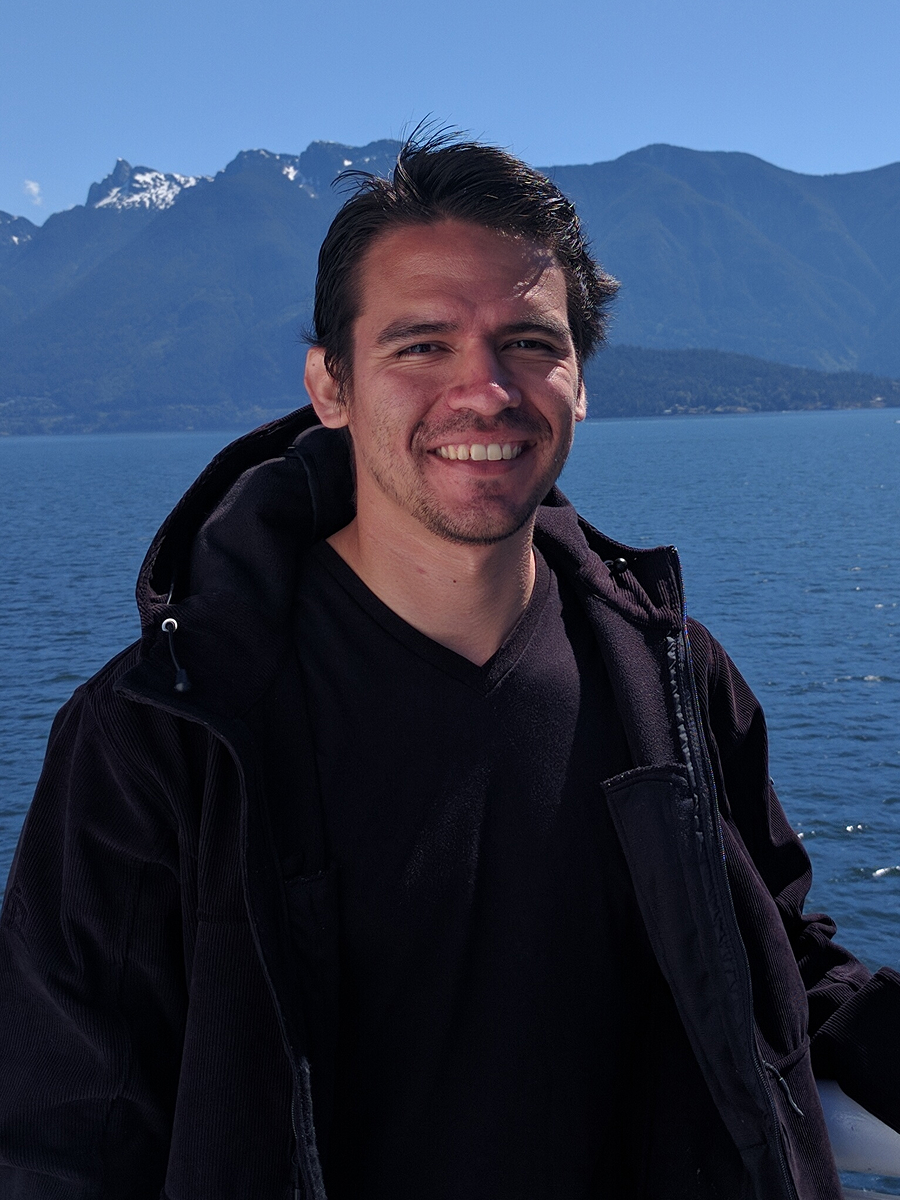
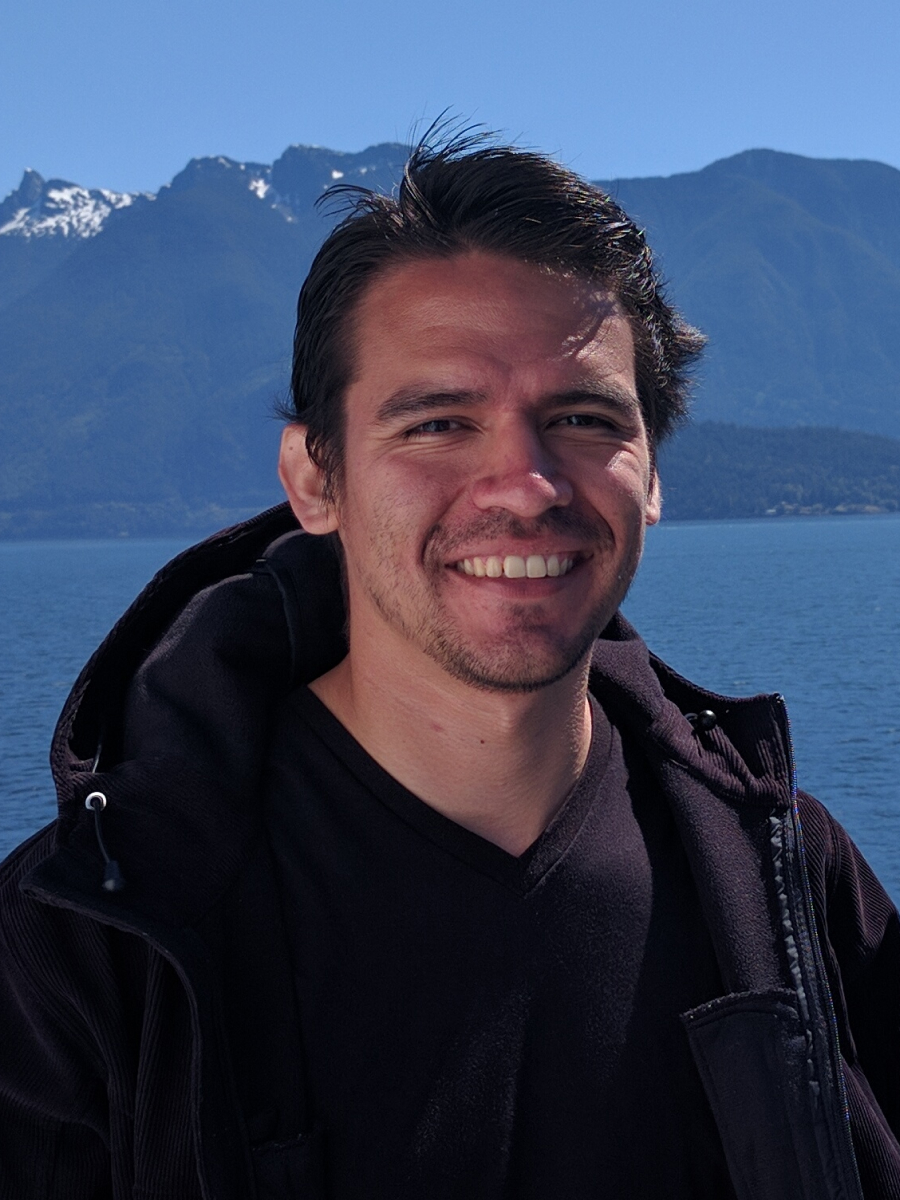
Update page

diff --git a/experience.html b/experience.html
@@ -31,7 +31,7 @@
         <div class="job">
           <h2>Senior Software Developer</h2>
           <h3>Veryon Inc.</h3>
-          <p>📅 Oct 2024 - June 2025 ∙ <span style="opacity: 0.7;">9 mos</span> 📍 Vancouver, BC ∙ <span style="opacity: 0.7;">Remote</span></p>
+          <p>📅 Oct 2024 - Jun 2025 ∙ <span style="opacity: 0.75;">9 mos</span> 🌎 Vancouver, BC ∙ <span style="opacity: 0.75;">Remote</span></p>
           <p>Developer Lead to migrate legacy aviation software mobile applications to .NET MAUI.</p>
           <ul>
             <li>Led the migration of a legacy, nonworking Aviation Tracking Xamarin application to .NET MAUI, porting over 20+ screens in under a quarter year.</li>
@@ -46,7 +46,7 @@
         <div class="job">
           <h2>Developer Advocate</h2>
           <h3>Wilderness Labs Inc.</h3>
-          <p>📅 Apr 2024 - Jul 2024 ∙ <span style="opacity: 0.7;">1 yr 4 mos</span> 📍 Vancouver, BC ∙ <span style="opacity: 0.7;">Remote</span></p>
+          <p>📅 Apr 2024 - Jul 2024 ∙ <span style="opacity: 0.75;">1 yr 4 mos</span> 🌎 Vancouver, BC ∙ <span style="opacity: 0.75;">Remote</span></p>
           <p>Joined on a Full Time role, explored innovative solutions for hardware-software integration using .NET</p>
           <ul>
             <li>Owned and led the Meadow Samples repository, creating over 200 .NET hardware projects for the most advanced .NET IoT platform in the market, Meadow, bridging the gap between software and hardware development.</li>
@@ -60,7 +60,7 @@
         <div class="job">
           <h2>Developer Advocate (Advisor) *</h2>
           <h3>Wilderness Labs Inc.</h3>
-          <p>📅 Apr 2018 - Apr 2024 ∙ <span style="opacity: 0.7;">5 yrs</span> 📍 Vancouver, BC ∙ <span style="opacity: 0.7;">Remote</span></p>
+          <p>📅 Apr 2018 - Apr 2024 ∙ <span style="opacity: 0.75;">5 yrs</span> 🌎 Vancouver, BC ∙ <span style="opacity: 0.75;">Remote</span></p>
           <p>As an advisor, I focused on various developer advocacy initiatives and community engagement efforts.</p>
           <ul>
             <li>Documented 200+ most popular peripherals for the Meadow.Foundation API site with clear Fritzing diagrams and concise code samples, helping the Meadow community understand wiring and API usage.</li>
@@ -76,7 +76,7 @@
         <div class="job">
           <h2>Mobile Software Developer</h2>
           <h3>Stack Construction Inc.</h3>
-          <p>📅 Aug 2021 - Apr 2023 ∙ <span style="opacity: 0.7;">1 yr 8 mos</span> 📍 Vancouver, BC ∙ <span style="opacity: 0.7;">Remote</span></p>
+          <p>📅 Aug 2021 - Apr 2023 ∙ <span style="opacity: 0.75;">1 yr 8 mos</span> 🌎 Vancouver, BC ∙ <span style="opacity: 0.75;">Remote</span></p>
           <p>Collaborated on SmartUse, a mobile-first construction collaboration platform that lets teams go paperless by uploading blueprints and documents to the cloud, enabling field crews and office staff to view, markup, and update plans in real time.</p>
           <ul>
             <li>Shipped a Daily Reports feature that enables users to log daily events such as progress, site visits, accidents, etc, improving communication and accountability.</li>
@@ -91,7 +91,7 @@
         <div class="job">
           <h2>Software Developer</h2>
           <h3>TRG Mobilearth Inc.</h3>
-          <p>📅 Jul 2016 - Aug 2021 ∙ <span style="opacity: 0.7;">5 yrs 2 mos</span> 📍 Vancouver, BC ∙ <span style="opacity: 0.7;">Hybrid</span></p>
+          <p>📅 Jul 2016 - Aug 2021 ∙ <span style="opacity: 0.75;">5 yrs 2 mos</span> 🌎 Vancouver, BC ∙ <span style="opacity: 0.75;">Hybrid</span></p>
           <p>A white-label Mobile Banking app for small banks and credit unions that serviced over 20 institutions.</p>
           <ul>
             <li>Designed and implemented a customizable user interface for the mobile banking app, allowing banks to tailor the app's appearance to their brand.</li>

diff --git a/index.html b/index.html
@@ -30,7 +30,7 @@
 
           <div class="vertical-stacklayout">
             <h1>Hello there!</h1>
-            <p>I'm a Software Developer with a strong background in .NET and a passion for building innovative solutions. I specialize in front-end applications such as .NET MAUI, Avalonia, and WPF, with a focus on creating user-friendly applications that enhance productivity and user experience.<br/><br/>
+            <p>I'm a Software Developer that is passionate in turning customer ideas into engaging, carefully planned, pixel-perfect user applications. With over 10 years working with .NET, I've built a wide range of applications from mobile devices, desktop, even embedded devices. <br/><br/>
             I have a proven track record of leading development teams and delivering high-quality software solutions. My expertise lies in understanding user needs and translating them into technical requirements, ensuring a seamless development process.</p>
           </div>
         </div>

diff --git a/assets/css/style.css b/assets/css/style.css
@@ -105,13 +105,13 @@ nav a:hover {
 }
 
 .screenshot {
-  width: 90%;
+  width: 100%;
   margin: 10px auto auto auto;
   display: block;
 }
 
 .home-text {
-  width: 85%; 
+  width: 94%; 
   margin: 20px auto; 
   display: block;
 }
@@ -201,7 +201,7 @@ nav a:hover {
 
 .skill {
   margin-top: 0px;
-  opacity: 0.7;
+  opacity: 0.75;
 }
 
 .footer-content {
